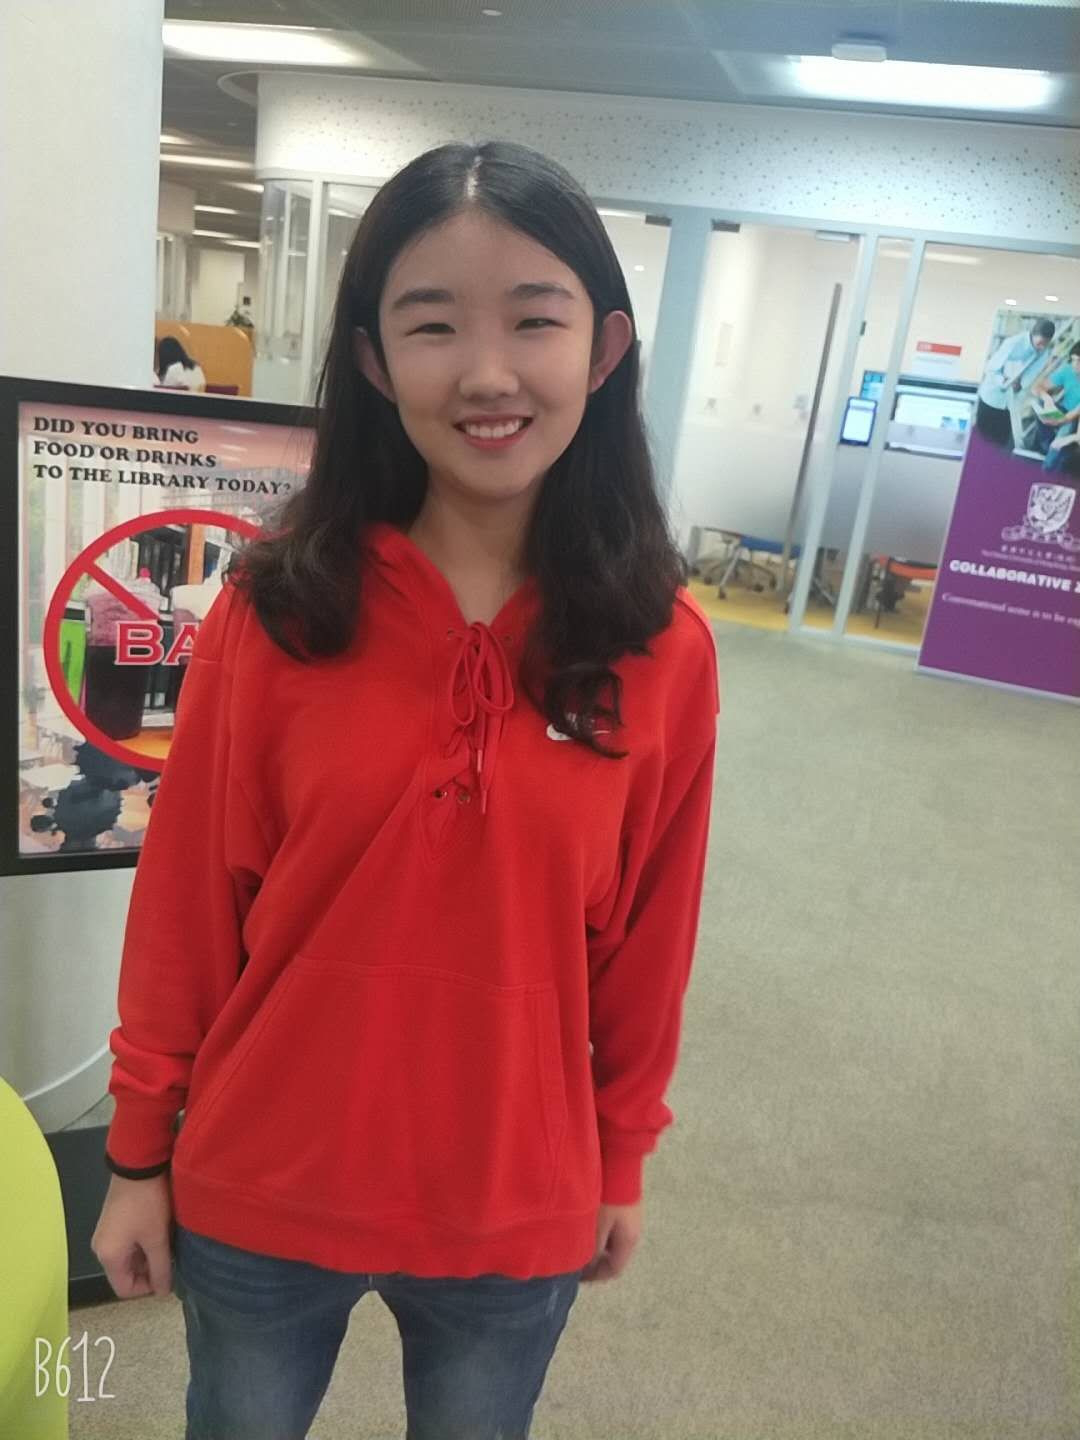
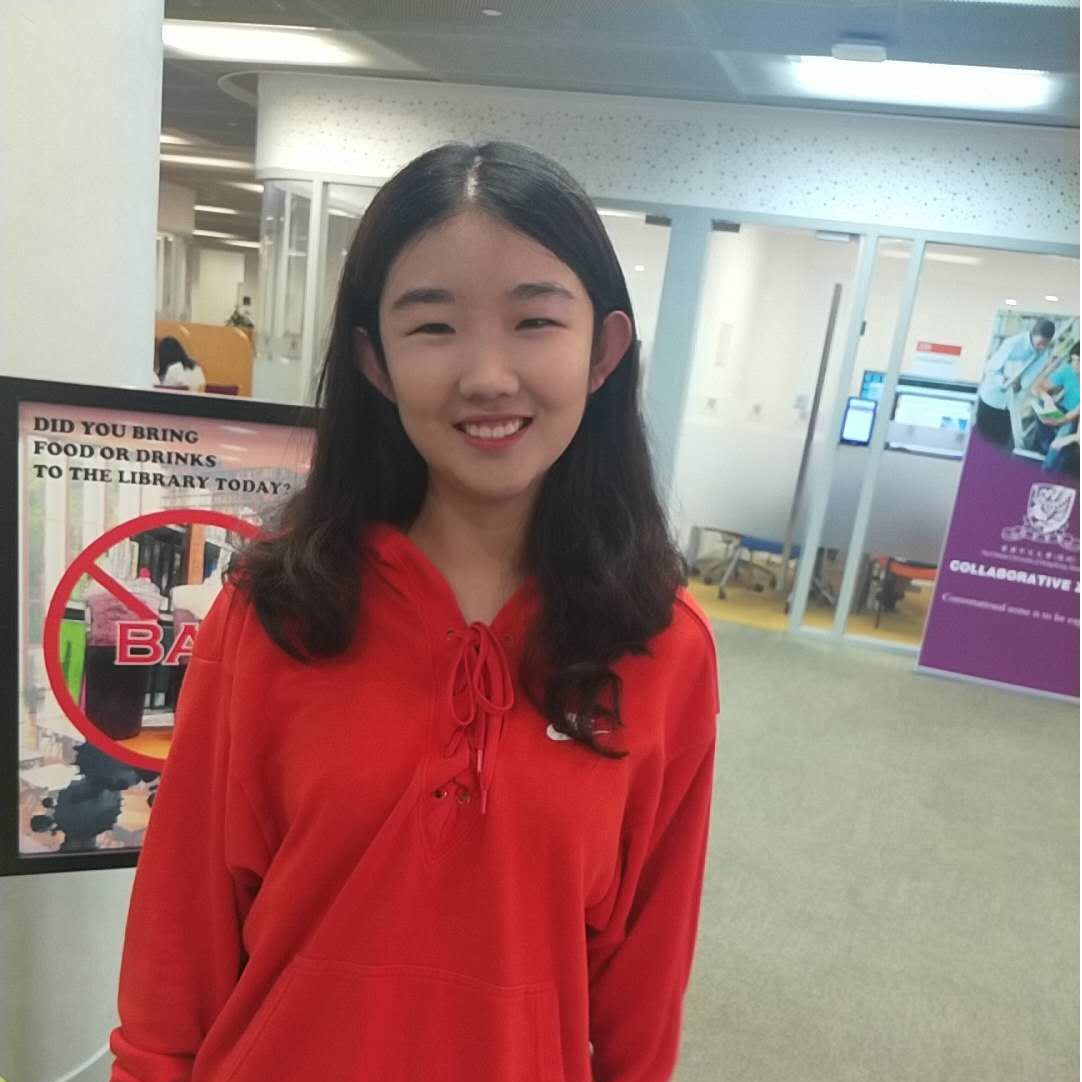
fixing pictures

diff --git a/team/_posts/2023-08-29-calix-tang.md b/team/_posts/2023-08-29-calix-tang.md
@@ -3,7 +3,7 @@ layout: member
 title: Calix Tang
 level: undergrad
 position: BS Student
-image: /team/images/calix-tang.png
+image: /team/images/calix-tang.jpg
 github: CalixTang
 scholar: PWAKyAwAAAAJ
 email: ctang306@gatech.edu
